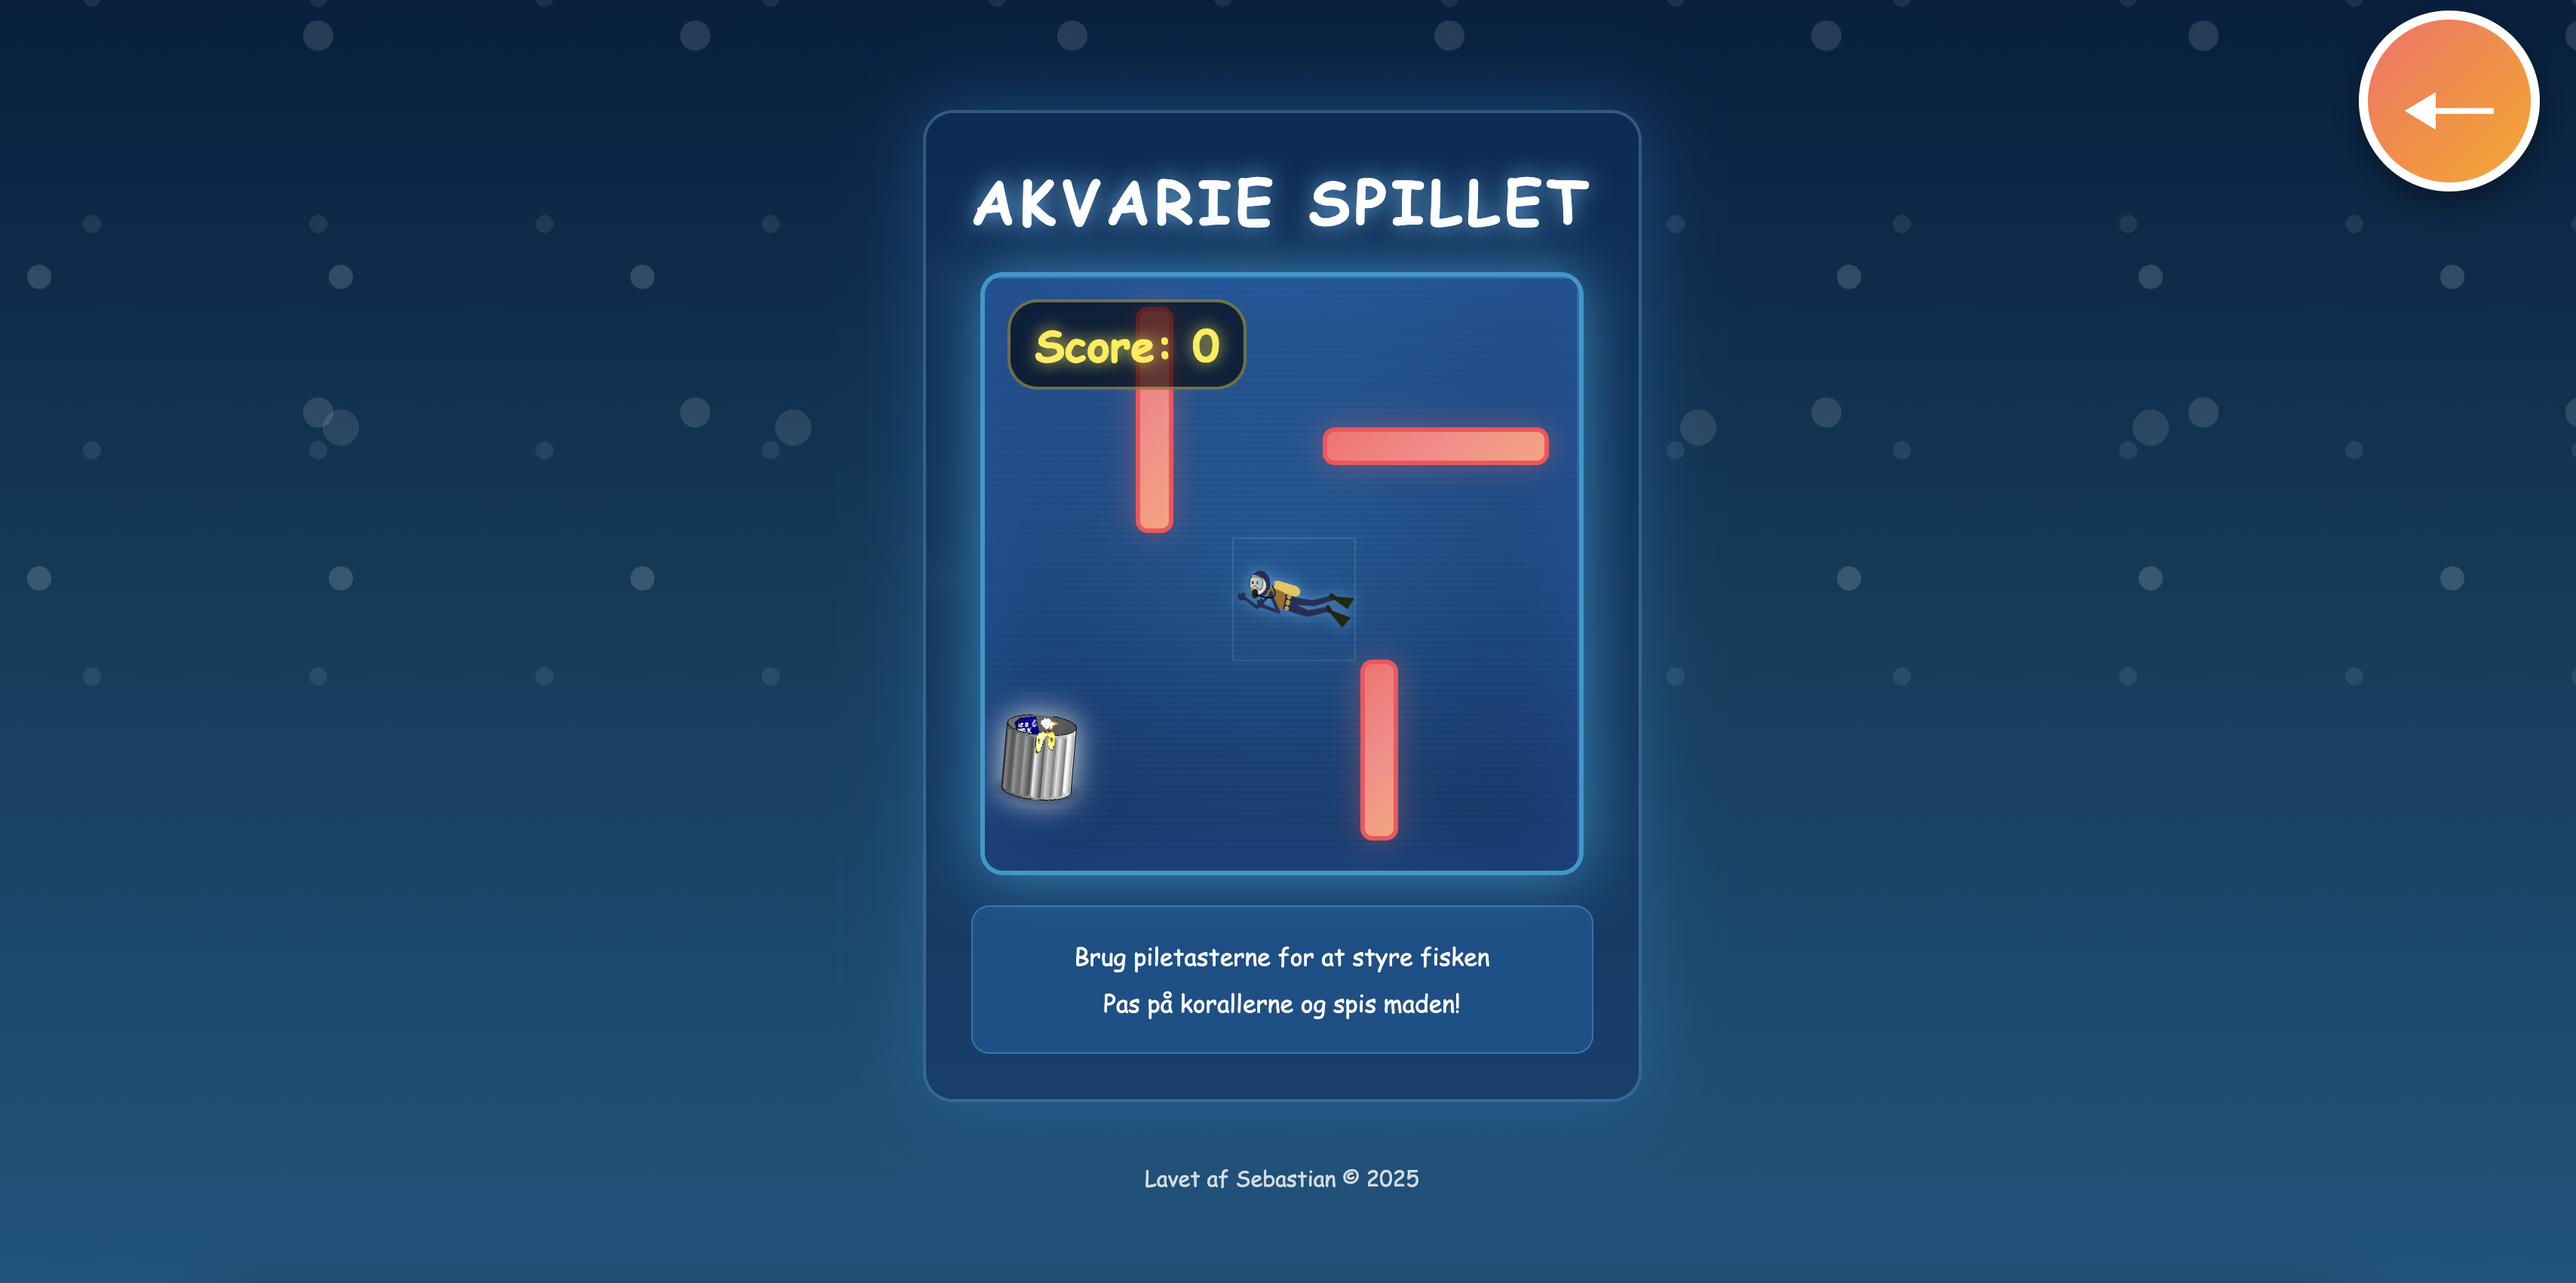
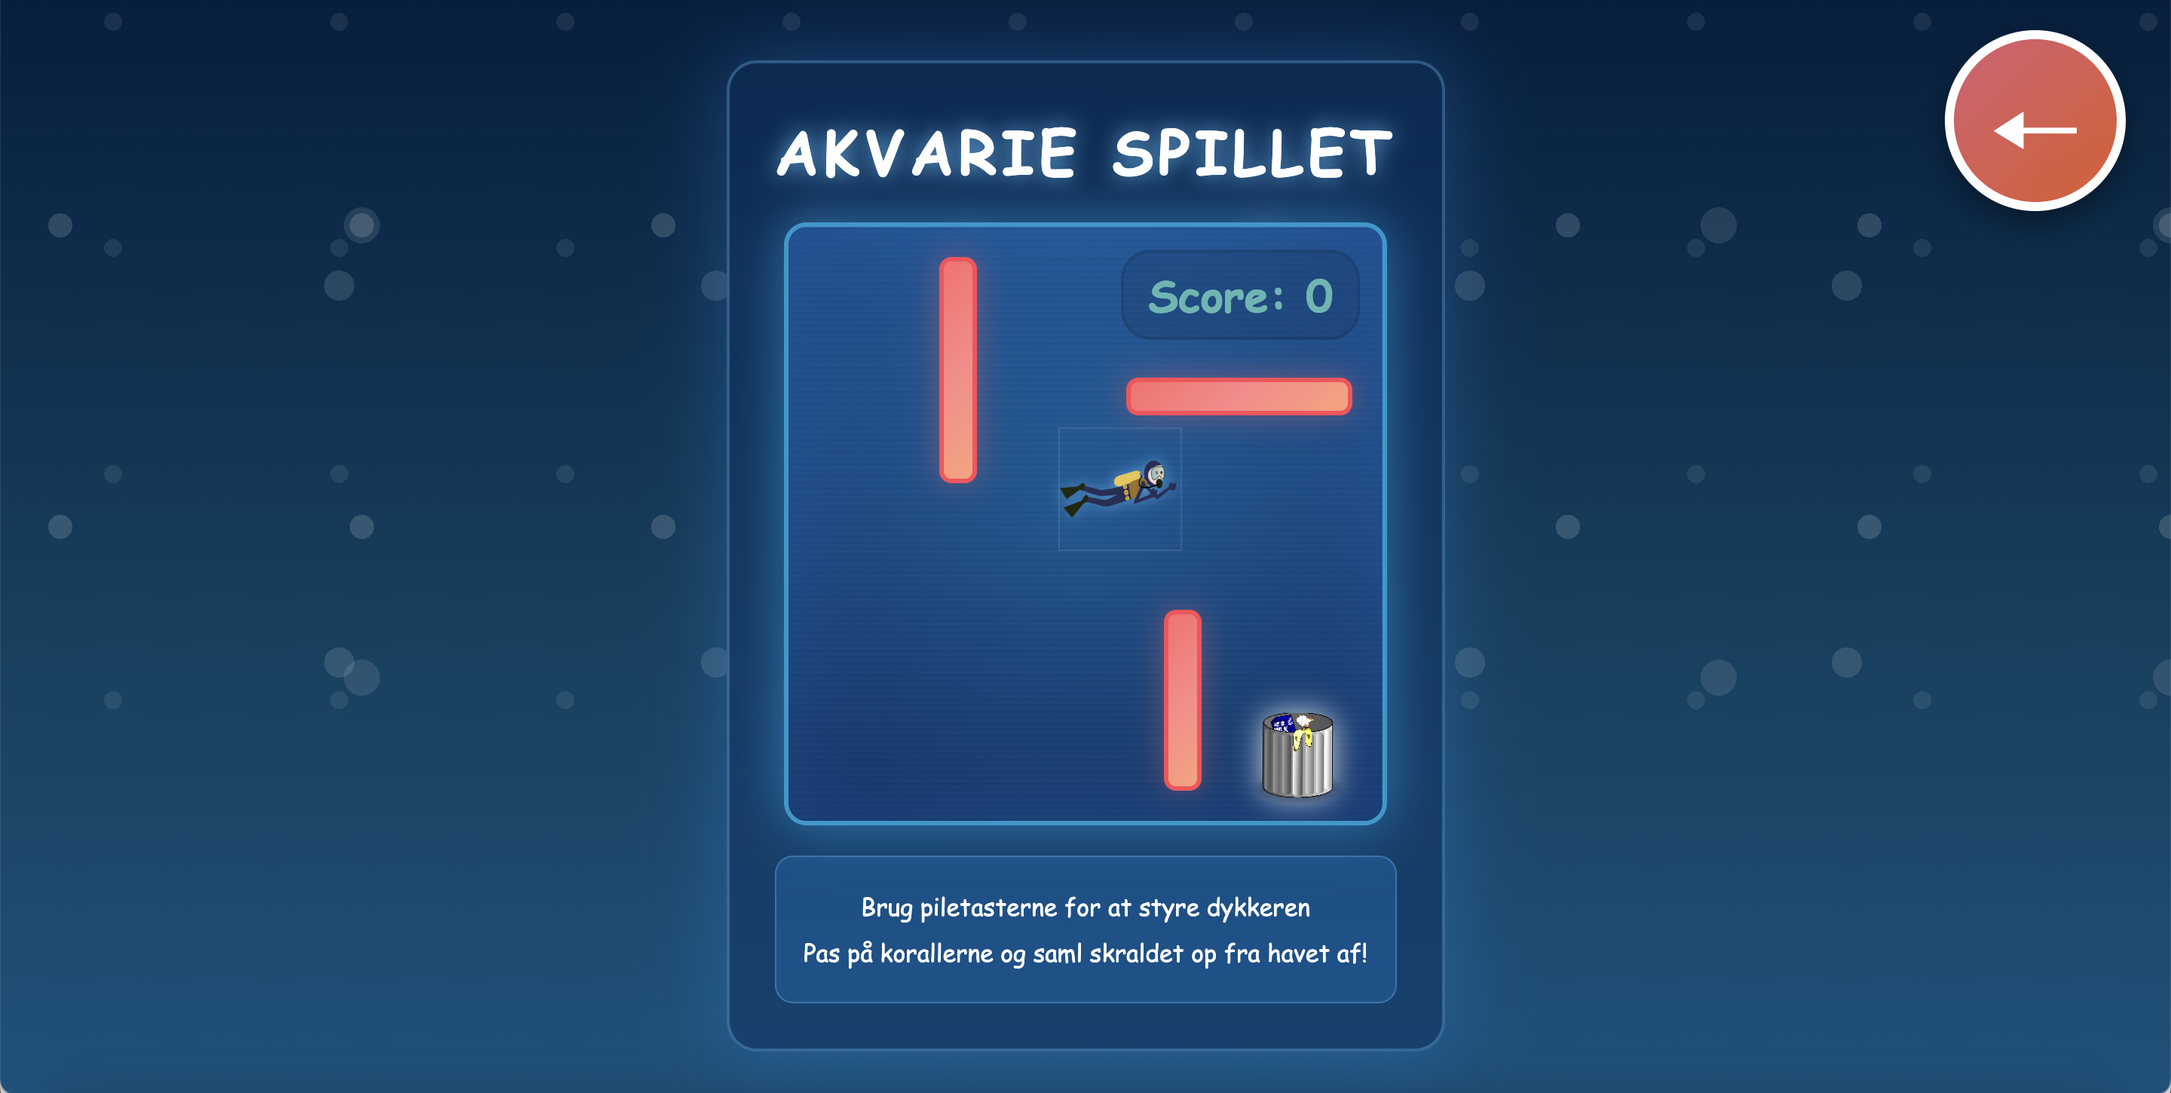
farveændringer

diff --git a/akvarie-touch-skaerm-main/game-3/game-3.css b/akvarie-touch-skaerm-main/game-3/game-3.css
@@ -63,7 +63,7 @@ header {
   width: 120px;
   height: 120px;
   border-radius: 50%;
-  background: linear-gradient(135deg, #ff6b6b, #ffa500);
+  background: linear-gradient(135deg, #d75d73, #e0592b);
   border: 6px solid white;
   color: white;
   font-size: 64px;
@@ -238,25 +238,23 @@ header {
 }
 
 .score-box {
-  background: rgba(0, 0, 0, 0.7);
+  background: rgba(0, 0, 0, 0.1);
   padding: 15px 40px;
   border-radius: 30px;
   box-shadow: 0 6px 20px rgba(0, 0, 0, 0.3);
   font-size: 28px;
   font-weight: bold;
-  border: 3px solid rgba(255, 235, 59, 0.5);
+  border: 3px solid rgba(0, 0, 0, 0.1);
 }
 
 .label {
-  color: #ffeb3b;
-  text-shadow: 0 0 15px rgba(255, 235, 59, 0.8);
+  color: #58b7b3;
 }
 
 #score {
-  color: #ffeb3b;
+  color: #58b7b3;
   font-size: 36px;
   margin: 0 8px;
-  text-shadow: 0 0 15px rgba(255, 235, 59, 0.8);
 }
 
 /* Spande */
@@ -282,11 +280,11 @@ header {
 }
 
 #blueBucket {
-  background: linear-gradient(135deg, #4facfe 0%, #00f2fe 100%);
+  background: linear-gradient(135deg, #099eda 0%, #58b7b3 100%);
 }
 
 #orangeBucket {
-  background: linear-gradient(135deg, #ffa500 0%, #ff6b6b 100%);
+  background: linear-gradient(135deg, #e63b29 0%, #e0592b 100%);
 }
 
 .bucket.hover {

diff --git a/akvarie-touch-skaerm-main/css/style.css b/akvarie-touch-skaerm-main/css/style.css
@@ -269,7 +269,7 @@ header {
   transition: all 0.4s ease;
   cursor: pointer;
   text-decoration: none;
-  border: 6px solid #ffd700;
+  border: 6px solid #58b7b3;
   display: flex;
   flex-direction: column;
 }
@@ -277,7 +277,7 @@ header {
 .game-card:hover {
   transform: translateY(-15px) scale(1.05);
   box-shadow: 0 20px 50px rgba(0, 0, 0, 0.5);
-  border-color: #ff6b6b;
+  border-color: #d75d73;
 }
 
 .game-card:active {
